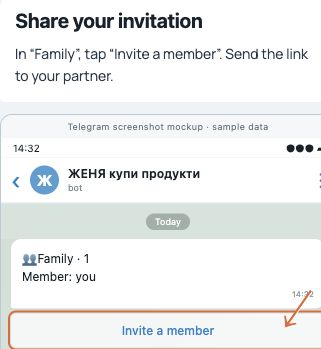
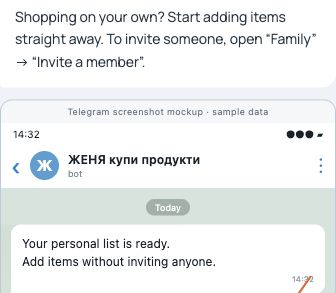
Support personal shopping with optional shared-list onboarding

diff --git a/src/shopping_bot/web/app.en.js b/src/shopping_bot/web/app.en.js
@@ -15,11 +15,11 @@ function joinForm(){return '<form id="family-join-form"><label>Invitation<input 
 function wireJoin(){const form=$('family-join-form');if(form)form.onsubmit=async event=>{event.preventDefault();const token=inviteToken($('family-invite-input').value.trim());if(!token){toast('Paste the full invitation link.');return;}try{await previewInvite(token);}catch(error){toast(error.message);}};}
 function renderFamily(){
  const data=familyView;$('family-dialog').querySelector('h2').textContent=data.name||'Your family';
- if(!data.family_id){$('family-members').innerHTML='<p class="hint">Create a shared list or join your loved ones.</p><button id="family-create" class="primary full">Create family</button>'+joinForm();$('family-create').onclick=()=>familyAction('/api/family/create',{});wireJoin();return;}
+ if(!data.family_id){$('family-members').innerHTML='<p class="hint">Choose how to start: on your own or with others. Invitations are optional.</p><button id="family-solo" class="primary full">🙋 Just for me</button><button id="family-shared" class="secondary full">👥 With others</button>'+joinForm();$('family-solo').onclick=()=>familyAction('/api/family/create',{mode:'solo'});$('family-shared').onclick=()=>familyAction('/api/family/create',{mode:'shared'});wireJoin();return;}
  const owner=data.owner_id===data.self_id;
- $('family-members').innerHTML=(data.members.length===1?'<p class="hint">You are the only family member. Share an invitation: the list becomes shared after they open the link and confirm joining.</p>':'')+data.members.map(member=>`<div class="history-row"><strong>${escape(member.name)}</strong><small>${member.self?'You · ':''}${member.owner?'Founder':'Member'}</small></div>`).join('')+
+ $('family-members').innerHTML=(data.members.length===1?'<p class="hint">This is your list — use it on your own. You can invite others later if you wish; invitations are optional.</p>':'')+data.members.map(member=>`<div class="history-row"><strong>${escape(member.name)}</strong><small>${member.self?'You · ':''}${member.owner?'Founder':'Member'}</small></div>`).join('')+
  '<div class="family-controls"><button id="family-invite" class="primary full">Invite a member</button><div id="family-new-link"></div>'+joinForm()+
- `<form id="family-name-form"><label>Family name<input id="family-name" value="${escape(data.name)}" maxlength="60" required></label><button class="secondary full" type="submit">Save name</button></form>`+
+ `<form id="family-name-form"><label>List name<input id="family-name" value="${escape(data.name)}" maxlength="60" required></label><button class="secondary full" type="submit">Save name</button></form>`+
  (data.invites.length?'<h3>Awaiting acceptance</h3>'+data.invites.map(invite=>`<div class="history-row"><small>${escape(new Date(invite.created_at).toLocaleString('en-GB'))}</small><button class="text-button" data-revoke="${escape(invite.token)}">Revoke invitation</button></div>`).join(''):'')+
  (owner&&data.members.length>1?`<label>Transfer founder role<select id="family-owner">${data.members.filter(m=>!m.self).map(m=>`<option value="${m.id}">${escape(m.name)}</option>`).join('')}</select></label><button id="family-owner-transfer" class="secondary full">Transfer role</button>`:'')+
  '<button id="family-leave" class="secondary full">Leave family</button>'+(owner?'<button id="family-delete" class="text-button danger">Delete family</button>':'')+'</div>';
@@ -32,7 +32,7 @@ function renderFamily(){
  if($('family-owner-transfer'))$('family-owner-transfer').onclick=()=>{const id=Number($('family-owner').value),member=data.members.find(m=>m.id===id);askFamily(`Transfer founder role to “${member.name}”? They will be able to delete the family.`,()=>familyAction('/api/family/owner',{user_id:id,confirm:true}));};
 }
 function askFamily(text,action){$('family-members').innerHTML=`<p class="family-confirm">${escape(text)}</p><div class="sheet-actions"><button id="family-confirm" class="primary">Confirm</button><button id="family-cancel" class="secondary">Cancel</button></div>`;$('family-cancel').onclick=renderFamily;$('family-confirm').onclick=async()=>{const button=$('family-confirm');button.disabled=true;try{await action();}catch(error){toast(error.message);}finally{if(button.isConnected)button.disabled=false;}};}
-async function familyAction(path,data){if(demo){toast('Changes are not saved in the demo.');renderFamily();return;}try{await api(path,data);toast('Done');await load();await openFamily();}catch(error){toast(error.message);await openFamily();}}
+async function familyAction(path,data){if(demo){toast('Changes are not saved in the demo.');renderFamily();return;}try{await api(path,data);toast('Done');await load();if(path==='/api/family/create'&&data.mode==='solo'){closeDialogs();}else await openFamily();}catch(error){toast(error.message);await openFamily();}}
 async function previewInvite(token){
  if(demo){toast('Invitations are available in the bot.');return;}
  const preview=await api('/api/family/preview',{token});
@@ -72,22 +72,22 @@ async function api(path, body){
 }
 async function load(quiet=false){
   if(loading){reloadNeeded=true;return;} loading=true; const startedRevision=revision;
-  try{const next=demo?structuredClone(demoData):await api('/api/state');if(startedRevision!==revision){reloadNeeded=true;return;}if(state.family_id&&next.family_id!==state.family_id){closeDialogs();operations.clear();pending.clear();photos.clear();selected=null;lastEvent=null;revision++;toast('Family switched');}if(next.language&&next.language!==currentLanguage){location.replace(languageURL(next.language));return;}const nextSignature=JSON.stringify(next);for(const [id,op] of operations){const product=next.products.find(p=>p.id===id);if(product)product.active=op.phase==='hidden'?op.action==='readd':op.previousActive;}state=next;if(nextSignature!==signature){signature=nextSignature;render();} $('connection').textContent=demo?'● Design preview':'● Shared list';}
+  try{const next=demo?structuredClone(demoData):await api('/api/state');if(startedRevision!==revision){reloadNeeded=true;return;}if(state.family_id&&next.family_id!==state.family_id){closeDialogs();operations.clear();pending.clear();photos.clear();selected=null;lastEvent=null;revision++;toast('Family switched');}if(next.language&&next.language!==currentLanguage){location.replace(languageURL(next.language));return;}const nextSignature=JSON.stringify(next);for(const [id,op] of operations){const product=next.products.find(p=>p.id===id);if(product)product.active=op.phase==='hidden'?op.action==='readd':op.previousActive;}state=next;if(nextSignature!==signature){signature=nextSignature;render();} $('connection').textContent=demo?'● Design preview':'● Your list';}
   catch(error){$('connection').textContent='○ Offline';if(!signature){$('subtitle').textContent='Your data is protected';$('content').innerHTML=`<div class="empty"><div class="symbol">↗</div><h2>Open in Telegram</h2><p>${escape(error.message)}</p><button class="primary" id="retry">Try again</button></div>`;$('retry').onclick=()=>load();}else if(!quiet)toast(error.message);}
   finally{loading=false;if(reloadNeeded){reloadNeeded=false;queueMicrotask(()=>load(true));}}
 }
 function visible(){const term=$('search').value.trim().toLocaleLowerCase('en');return state.products.filter(p=>(tab==='catalog'||p.active)&&(!filter||p.category===filter)&&(!term||(p.name+' '+p.note).toLocaleLowerCase('en').includes(term)));}
 function row(p){const emoji=(state.categories[p.category]||'📦').split(' ')[0];const buying=operations.get(p.id)?.action==='buy';return `<article class="product-row ${buying?'is-buying':''}" data-product="${p.id}"><button class="product-open" data-open="${p.id}" aria-label="Open ${escape(p.name)}"><span class="thumb">${p.photo?`<img data-photo="${p.id}" alt="Packaging ${escape(p.name)}">`:escape(emoji)}</span><span class="product-copy"><strong>${escape(p.name)}</strong>${p.note?`<small>${escape(p.note)}</small>`:''}</span></button>${tab==='catalog'&&p.active?'<span class="in-list">On the list</span>':`<button class="product-check ${tab==='catalog'?'add-again':''}" data-action="${p.id}" aria-label="${tab==='catalog'?'Add to list':'Bought'}: ${escape(p.name)}" ${pending.has(p.id)?'disabled':''} aria-pressed="${buying}">${tab==='catalog'?'＋':'<svg viewBox="0 0 24 24" aria-hidden="true"><path d="M5 12.5 10 17 19 7"/></svg>'}</button>`}</article>`;}
 function render(){
-  if(state.onboarding){$('title').textContent='Our groceries';$('subtitle').textContent='One list for your family';document.querySelector('.tools').hidden=true;$('filters').hidden=true;$('content').innerHTML='<div class="empty"><h2>Start with a family</h2><p>Create a family or accept an invitation.</p><button id="onboarding-family" class="primary">Create or join</button></div>';$('onboarding-family').onclick=()=>openFamily();return;}
+  if(state.onboarding){$('title').textContent='Your shopping';$('subtitle').textContent='On your own or with others';document.querySelector('.tools').hidden=true;$('filters').hidden=true;$('content').innerHTML='<div class="empty"><h2>How will you use your list?</h2><p>On your own or with others. Start on your own and invite someone later if you wish.</p><div class="usage-choices"><button id="onboarding-solo" class="primary">🙋 Just for me</button><button id="onboarding-shared" class="secondary">👥 With others</button><button id="onboarding-family" class="text-button">I have an invitation</button></div></div>';$('onboarding-family').onclick=()=>openFamily();$('onboarding-solo').onclick=()=>familyAction('/api/family/create',{mode:'solo'});$('onboarding-shared').onclick=()=>familyAction('/api/family/create',{mode:'shared'});return;}
 
   photoObserver.disconnect();
   const previousRects = new Map([...document.querySelectorAll('[data-product]')].map(node=>[node.dataset.product,node.getBoundingClientRect()]));
   $('title').textContent={shopping:'Shopping',catalog:'Our products',history:'History'}[tab];
   const count=state.products.filter(p=>p.active).length;
   const members=state.family_member_count||(demo?2:1);
-  $('family').textContent=`👥 Family · ${members}`;
-  $('subtitle').textContent=tab==='shopping'?(members===1?`${count} at списку · only you in this family`:`${count} at списку · members: ${members}`):tab==='catalog'?`${state.products.length} saved · photos and notes are kept`:'Who bought what and when';
+  $('family').textContent=members===1?'👤 My list':`👥 Members · ${members}`;
+  $('subtitle').textContent=tab==='shopping'?(members===1?`${count} at списку · personal list`:`${count} at списку · members: ${members}`):tab==='catalog'?`${state.products.length} saved · photos and notes are kept`:'Who bought what and when';
   document.querySelectorAll('nav button').forEach(b=>b.dataset.tab===tab?b.setAttribute('aria-current','page'):b.removeAttribute('aria-current'));
   document.querySelector('.tools').hidden=tab==='history';
   $('filters').hidden=tab==='history';
@@ -100,7 +100,7 @@ function render(){
   const keys=Object.keys(state.categories).filter(key=>available.some(p=>p.category===key));
   $('filters').innerHTML=`<button data-filter="" class="${!filter?'selected':''}" aria-pressed="${!filter}">All</button>`+keys.map(key=>`<button data-filter="${key}" class="${filter===key?'selected':''}" aria-pressed="${filter===key}">${escape(state.categories[key])}</button>`).join('');
   const rows=visible();
-  if(!rows.length){const searching=$('search').value||filter;const complete=!searching&&tab==='shopping';$('content').innerHTML=`<div class="empty"><div class="symbol">${searching?'⌕':complete?'✓':'＋'}</div><h2>${searching?'No products found':complete?'All bought':'Your catalog is empty'}</h2><p>${searching?'Change the search or choose another category.':complete?'Photos and notes are kept. Quickly add products again.':'Add your first products — they will stay here for future purchases.'}</p><div class="empty-actions"><button class="primary" id="empty-add">Add products</button>${complete&&state.products.length?'<button class="secondary" id="empty-again">Buy again</button>':''}</div></div>`;$('empty-add').onclick=openAdd;if($('empty-again'))$('empty-again').onclick=()=>switchTab('catalog');return;}
+  if(!rows.length){const searching=$('search').value||filter;const complete=!searching&&tab==='shopping';$('content').innerHTML=`<div class="empty"><div class="symbol">${searching?'⌕':complete?'✓':'＋'}</div><h2>${searching?'No products found':complete?(state.products.length?'All bought':'Your list is ready'):'Your catalog is empty'}</h2><p>${searching?'Change the search or choose another category.':complete?(state.products.length?'Photos and notes are kept. Quickly add products again.':'Add your first items using the button below.'):'Add your first products — they will stay here for future purchases.'}</p><div class="empty-actions"><button class="primary" id="empty-add">Add products</button>${complete&&state.products.length?'<button class="secondary" id="empty-again">Buy again</button>':''}</div></div>`;$('empty-add').onclick=openAdd;if($('empty-again'))$('empty-again').onclick=()=>switchTab('catalog');return;}
   $('content').innerHTML=Object.keys(state.categories).map(key=>{const group=rows.filter(p=>p.category===key);return group.length?`<section class="group"><h2>${escape(state.categories[key])}<span>${group.length}</span></h2><div class="products">${group.map(row).join('')}</div></section>`:'';}).join('');
   document.querySelectorAll('[data-open]').forEach(b=>b.onclick=()=>openProduct(Number(b.dataset.open)));
   document.querySelectorAll('[data-action]').forEach(b=>b.onclick=()=>mutateProduct(Number(b.dataset.action),tab==='catalog'?'readd':'buy'));
@@ -151,8 +151,8 @@ async function mutateProduct(id,action){
     if(demo){demoData.products.find(p=>p.id===id).active=action==='readd';result={bought:action==='buy',event_id:id};}
     else result=await api('/api/'+action,{id});
     await motion;
-    if(action==='buy'&&result.bought){lastEvent=result.event_id;toast('Bought. Removed from the shared list.',true);}
-    else toast(action==='readd'?'Added to the shared list':'Product already bought');
+    if(action==='buy'&&result.bought){lastEvent=result.event_id;toast('Bought. Removed from the list.',true);}
+    else toast(action==='readd'?'Added to the list':'Product already bought');
     if(action==='buy')product.active=false;
   }catch(error){
     operations.delete(id);
@@ -169,7 +169,7 @@ async function mutateProduct(id,action){
 $('product-form').onsubmit=async event=>{event.preventDefault();const button=event.submitter;button.disabled=true;try{if(demo){Object.assign(demoData.products.find(p=>p.id===selected.id),{note:$('note').value,category:$('category').value});}else await api('/api/edit',{id:selected.id,note:$('note').value,category:$('category').value});closeDialogs();toast('Changes saved');await load();}catch(error){toast(error.message);}finally{button.disabled=false;}};
 $('product-action').onclick=()=>mutateProduct(selected.id,selected.active?'buy':'readd');
 $('items').oninput=()=>{draftText=null;$('draft').hidden=true;$('add-submit').textContent='Review list';};
-$('add-form').onsubmit=async event=>{event.preventDefault();const button=$('add-submit');button.disabled=true;try{const raw=$('items').value.trim();if(!raw)return;if(draftText!==raw){const result=demo?{items:raw.split(/[,\n]/).filter(Boolean).map(name=>({name:name.trim(),note:'',category:'other'}))}:await api('/api/draft',{text:raw});if(!result.items.length){toast('Enter product names');return;}$('draft').innerHTML='<strong>Add to the shared list?</strong>'+result.items.map(p=>`<p>${escape(p.name)}${p.active?' · Already on the list':''}<br><small class="muted">${escape(state.categories[p.category])}${p.note?' · '+escape(p.note):''}</small></p>`).join('');$('draft').hidden=false;draftText=raw;button.textContent='Add all · '+result.items.length;}else{if(demo){raw.split(/[,\n]/).filter(Boolean).forEach((name,i)=>demoData.products.push({id:Date.now()+i,name:name.trim(),note:'',category:'other',active:true,photo:false}));}else await api('/api/add',{text:raw});closeDialogs();tab='shopping';filter='';$('search').value='';toast('Products added');await load();}}catch(error){toast(error.message);}finally{button.disabled=false;}};
+$('add-form').onsubmit=async event=>{event.preventDefault();const button=$('add-submit');button.disabled=true;try{const raw=$('items').value.trim();if(!raw)return;if(draftText!==raw){const result=demo?{items:raw.split(/[,\n]/).filter(Boolean).map(name=>({name:name.trim(),note:'',category:'other'}))}:await api('/api/draft',{text:raw});if(!result.items.length){toast('Enter product names');return;}$('draft').innerHTML='<strong>Add to the list?</strong>'+result.items.map(p=>`<p>${escape(p.name)}${p.active?' · Already on the list':''}<br><small class="muted">${escape(state.categories[p.category])}${p.note?' · '+escape(p.note):''}</small></p>`).join('');$('draft').hidden=false;draftText=raw;button.textContent='Add all · '+result.items.length;}else{if(demo){raw.split(/[,\n]/).filter(Boolean).forEach((name,i)=>demoData.products.push({id:Date.now()+i,name:name.trim(),note:'',category:'other',active:true,photo:false}));}else await api('/api/add',{text:raw});closeDialogs();tab='shopping';filter='';$('search').value='';toast('Products added');await load();}}catch(error){toast(error.message);}finally{button.disabled=false;}};
 $('undo').onclick=async()=>{if(!lastEvent)return;const eventId=lastEvent;lastEvent=null;$('undo').disabled=true;try{if(demo){const product=demoData.products.find(p=>p.id===eventId);if(product)product.active=true;}else{const result=await api('/api/undo',{event_id:eventId});if(!result.restored){toast('This purchase was already undone');return;}}toast('Restored to the list');await load();}catch(error){lastEvent=eventId;toast(error.message,true);}finally{$('undo').disabled=false;}};
 $('refresh').onclick=()=>load();$('add').onclick=openAdd;$('search').oninput=render;
 $('filters').onclick=event=>{const button=event.target.closest('[data-filter]');if(button){filter=button.dataset.filter;render();}};

diff --git a/src/shopping_bot/web/help.js b/src/shopping_bot/web/help.js
@@ -1,16 +1,16 @@
 
-const copy={uk:{help:'Довідка',eyebrow:'Перші покупки разом',hero:'Один список.<br>Для вас обох.',intro:'Від першого запуску до спільних покупок — шість коротких кроків.',creator:'Я створюю список',invited:'Мене запросили',guide:'ЖЕНЯ купи продукти',step:'КРОК',back:'← Назад',next:'Наступний крок →',again:'На початок ↺',preview:'Ілюстровані приклади на демонстраційних даних. Довідка в чаті: /help. Повідомити про проблему: /support.',mock:'Макет скрина Telegram · демодані',steps:[
+const copy={uk:{help:'Довідка',eyebrow:'Ваш список покупок',hero:'Для себе.<br>Або разом.',intro:'Почніть самостійно або запросіть інших — коли захочете.',creator:'Я створюю список',invited:'Мене запросили',guide:'ЖЕНЯ купи продукти',step:'КРОК',back:'← Назад',next:'Наступний крок →',again:'На початок ↺',preview:'Ілюстровані приклади на демонстраційних даних. Довідка в чаті: /help. Повідомити про проблему: /support.',mock:'Макет скрина Telegram · демодані',steps:[
 ['Мова','Почніть із мови','Відкрийте бот і натисніть Start / «Розпочати». Оберіть українську або English.','Мову можна змінити пізніше: /language.','<div class="bubble">Оберіть мову / Choose your language</div><div class="fakebutton target">🇺🇦 Українська</div><div class="fakebutton">🇬🇧 English</div>'],
-['Сім’я','Створіть сім’ю','Натисніть «Створити сім’ю». Потім відкрийте «Сім’я» та запросіть близьку людину.','Створена сім’я ще не означає, що інша людина приєдналася.','<div class="bubble">Ваш спільний список починається зі сім’ї.</div><div class="fakebutton target">Створити сім’ю</div><div class="fakebutton">Приєднатися</div>'],
-['Запрошення','Надішліть запрошення','У «Сім’я» натисніть «Запросити учасника». Надішліть посилання партнеру або партнерці.','Людина має відкрити посилання й підтвердити приєднання. Один учасник = список поки бачите лише ви.','<div class="bubble">👥 Сім’я · 1<br>Учасник: ви</div><div class="fakebutton target">Запросити учасника</div><div class="bubble">Після прийняття: 👥 Сім’я · 2 ✓</div>'],
+['Ваш список','Оберіть свій варіант','Натисніть «Для себе» для особистого списку або «Разом з іншими» для спільних покупок.','Обидва варіанти мають усі функції. Запросити когось можна пізніше.','<div class="bubble">Як будете користуватися списком?</div><div class="fakebutton target">🙋 Для себе</div><div class="fakebutton">👥 Разом з іншими</div><div class="fakebutton">У мене є запрошення</div>'],
+['За бажанням','Запрошення необов’язкове','Користуєтеся самостійно? Одразу додавайте товари. Щоб запросити когось, відкрийте «Сім’я» → «Запросити учасника».','Список для однієї людини повноцінний. Інші побачать його лише після підтвердження запрошення.','<div class="bubble">Ваш особистий список готовий.<br>Можна додавати товари без запрошення.</div><div class="fakebutton target">🛒 Покупки</div>'],
 ['Додавання','Скажіть, що купити','Надішліть боту текст або голосове: «Молоко, яйця, хліб». Перевірте чернетку й підтвердьте додавання.','Якщо бот почув не те — виправте чернетку до підтвердження. У Mini App товари також можна додати кнопкою +.','<div class="bubble" class="sample-app">🎙 Молоко, яйця, хліб</div><div class="bubble">Молоко<br>Яйця<br>Хліб</div><div class="fakebutton target">✅ Додати</div>'],
 ['У магазині','Відкрийте список покупок','У боті натисніть «Покупки». Відкриється Mini App: там натискайте галочки біля куплених товарів.','Товар зникне з активного списку для всіх учасників. Фото й нотатки залишаться в каталозі.','<div class="bubble">👥 Сім’я · 2</div><div class="fakebutton target">Покупки</div><div class="bubble">Далі в Mini App: ✓ Молоко</div><div class="bubble">Залишилось купити: яйця, хліб</div>'],
 ['Фото й допомога','Усе потрібне — під рукою','Для фото надішліть боту зображення упаковки з назвою товару в підписі. Нотатку змініть у картці товару.','Щось не працює? /support → опишіть проблему → «Надіслати». Збережіть номер звернення.','<div class="bubble">📷 Фото упаковки<br>Підпис: «Молоко»</div><div class="fakebutton">Нотатка у картці Mini App</div><div class="fakebutton target">🐞 Повідомити про проблему</div>']
 ],join:[['Сім’я','Відкрийте запрошення','Попросіть близьку людину надіслати запрошення з розділу «Сім’я». Відкрийте її посилання в Telegram.','Щоб мати спільний список, приєднайтеся до її сім’ї. Другу сім’ю створювати не потрібно.','<div class="bubble">Запрошення до спільного списку<br>t.me/…?start=invite_…</div><div class="fakebutton target">Відкрити посилання</div>'],['Приєднання','Підтвердьте приєднання','Перевірте, хто вас запросив. Натисніть «Приєднатися». Після цього в розділі «Сім’я» мають бути ви обоє.','Якщо у вас уже є своя сім’я, бот запропонує перехід. «Перенести список» переносить активні покупки; каталог та історія не переносяться.','<div class="bubble">Юлія запрошує до «Наші покупки».</div><div class="fakebutton target">Приєднатися</div><div class="bubble">Перевірте: 👥 Сім’я · 2 ✓</div>']]},
-en:{help:'Help',eyebrow:'Your first shared shop',hero:'One list.<br>For both of you.',intro:'From opening the bot to shopping together — six short steps.',creator:'I’m creating a list',invited:'I’ve been invited',guide:'ZHENYA · shopping bot',step:'STEP',back:'← Back',next:'Next step →',again:'Start again ↺',preview:'Illustrated examples with sample data. Chat help: /help. Report a problem: /support.',mock:'Telegram screenshot mockup · sample data',steps:[
+en:{help:'Help',eyebrow:'Your shopping list',hero:'On your own.<br>Or together.',intro:'Start on your own or invite others whenever you wish.',creator:'I’m creating a list',invited:'I’ve been invited',guide:'ZHENYA · shopping bot',step:'STEP',back:'← Back',next:'Next step →',again:'Start again ↺',preview:'Illustrated examples with sample data. Chat help: /help. Report a problem: /support.',mock:'Telegram screenshot mockup · sample data',steps:[
 ['Language','Choose your language','Open the bot and tap Start. Choose Ukrainian or English.','You can change it later with /language.','<div class="bubble">Оберіть мову / Choose your language</div><div class="fakebutton">🇺🇦 Українська</div><div class="fakebutton target">🇬🇧 English</div>'],
-['Family','Create a family','Tap “Create family”. Then open “Family” to invite someone.','Creating a family does not automatically add another person.','<div class="bubble">A shared list starts with a family.</div><div class="fakebutton target">Create family</div><div class="fakebutton">Join</div>'],
-['Invitation','Share your invitation','In “Family”, tap “Invite a member”. Send the link to your partner.','They must open the link and confirm joining. With one member, only you can see this list.','<div class="bubble">👥 Family · 1<br>Member: you</div><div class="fakebutton target">Invite a member</div><div class="bubble">After they join: 👥 Family · 2 ✓</div>'],
+['Your list','Choose how to start','Choose “Just for me” for a personal list or “With others” for shared shopping.','Both options include all shopping features. You can invite someone later.','<div class="bubble">How will you use your list?</div><div class="fakebutton target">🙋 Just for me</div><div class="fakebutton">👥 With others</div><div class="fakebutton">I have an invitation</div>'],
+['Optional','Inviting others is optional','Shopping on your own? Start adding items straight away. To invite someone, open “Family” → “Invite a member”.','A one-person list has all shopping features. Others see it only after accepting your invitation.','<div class="bubble">Your personal list is ready.<br>Add items without inviting anyone.</div><div class="fakebutton target">🛒 Shopping</div>'],
 ['Add items','Say what you need','Send a text or voice message: “Milk, eggs, bread”. Review the draft and confirm adding it.','If the bot misheard you, edit the draft before confirming. You can also add items with + in the Mini App.','<div class="bubble" class="sample-app">🎙 Milk, eggs, bread</div><div class="bubble">Milk<br>Eggs<br>Bread</div><div class="fakebutton target">✅ Add</div>'],
 ['Shopping','Open your shopping list','Tap “Shopping” in the bot. It opens the Mini App, where you can tick off items you bought.','It leaves the active list for every family member. Its photo and notes remain in the catalog.','<div class="bubble">👥 Family · 2</div><div class="fakebutton target">Shopping</div><div class="bubble">Then in the Mini App: ✓ Milk</div><div class="bubble">Still to buy: eggs, bread</div>'],
 ['Photos & help','Keep the details handy','Send the bot a package photo with the product name in its caption. Edit notes in the product card.','Something broken? /support → describe the problem → “Send”. Keep your report number.','<div class="bubble">📷 Package photo<br>Caption: “Milk”</div><div class="fakebutton">Note in the Mini App product card</div><div class="fakebutton target">🐞 Report a problem</div>']

diff --git a/src/shopping_bot/web/index.html b/src/shopping_bot/web/index.html
@@ -11,12 +11,12 @@
 </head>
 <body>
 <div class="shell">
-<header><div class="eyebrow">ДЛЯ НАШОЇ СІМ’Ї <span id="connection">● Спільний список</span></div>
+<header><div class="eyebrow">ВАШІ ПОКУПКИ <span id="connection">● Ваш список</span></div>
 <div class="headline"><h1 id="title">Покупки</h1><button id="refresh" class="icon-button" aria-label="Оновити список"><svg viewBox="0 0 24 24" aria-hidden="true"><path d="M20 10a8 8 0 1 0-2 8M20 4v6h-6"/></svg></button></div>
 <p id="subtitle">Завантажуємо ваш список…</p></header>
 <label class="language-picker">🌐 <select id="language" aria-label="Мова / Language"><option value="" disabled>Оберіть мову / Choose language</option><option value="uk">Українська</option><option value="en">English</option></select></label>
 <button id="help-guide" class="secondary" type="button">📖 Довідка</button>
-<button id="family" class="secondary" type="button">👥 Сім’я</button>
+<button id="family" class="secondary" type="button">👥 Учасники</button>
 <div id="demo-banner" hidden>Перегляд дизайну · демонстраційні товари</div>
 <div class="tools"><label class="search"><span aria-hidden="true"><svg viewBox="0 0 24 24" aria-hidden="true"><circle cx="10.5" cy="10.5" r="6.5"/><path d="m16 16 4 4"/></svg></span><input id="search" type="search" placeholder="Знайти товар" aria-label="Знайти товар"></label><button class="add-button" id="add" aria-label="Додати товари"><svg viewBox="0 0 24 24" aria-hidden="true"><path d="M12 5v14M5 12h14"/></svg></button></div>
 <div id="filters" class="filters" aria-label="Категорії"></div>
@@ -26,5 +26,5 @@
 <dialog id="product-dialog"><form id="product-form"><div class="sheet-top"><span>КАРТКА ТОВАРУ</span><button type="button" class="icon-button close" aria-label="Закрити картку">×</button></div><div id="product-photo"></div><h2 id="product-name"></h2><p id="product-status" class="muted"></p><label>Нотатка<textarea id="note" maxlength="200" rows="3" placeholder="Наприклад: купити в Mercadona"></textarea></label><label>Категорія<select id="category"></select></label><p id="photo-hint" class="hint">Фото упаковки можна додати в чаті: надішліть фото з назвою товару.</p><div class="sheet-actions"><button type="submit" class="primary">Зберегти</button><button type="button" id="product-action" class="secondary"></button></div></form></dialog>
 <dialog id="add-dialog"><div class="sheet-top"><span>ДОДАТИ ДО СПИСКУ</span><button type="button" class="icon-button close" aria-label="Закрити додавання">×</button></div><h2>Що потрібно купити?</h2><form id="add-form"><label>Товари<textarea id="items" rows="4" maxlength="2400" placeholder="Молоко, яйця, картопля" required></textarea></label><p class="hint">Через кому або з нового рядка. Нотатка: картопля :: купити в Mercadona.</p><div id="draft" hidden></div><button class="primary full" id="add-submit" type="submit">Перевірити список</button></form><button type="button" class="text-button" id="voice">🎙 Додати голосом у чаті</button></dialog>
 <div id="toast" role="status" hidden><span></span><button id="undo" hidden>Скасувати</button></div>
-<dialog id="family-dialog"><div class="sheet-top"><span>НАША СІМ’Я</span><button type="button" class="icon-button close" aria-label="Закрити сім’ю">×</button></div><h2>Учасники</h2><div id="family-members" aria-live="polite"></div></dialog>
+<dialog id="family-dialog"><div class="sheet-top"><span>ДОСТУП ДО СПИСКУ</span><button type="button" class="icon-button close" aria-label="Закрити вікно учасників">×</button></div><h2>Учасники</h2><div id="family-members" aria-live="polite"></div></dialog>
 </body></html>

diff --git a/src/shopping_bot/web/index.en.html b/src/shopping_bot/web/index.en.html
@@ -11,12 +11,12 @@
 </head>
 <body>
 <div class="shell">
-<header><div class="eyebrow">FOR OUR FAMILY <span id="connection">● Shared list</span></div>
+<header><div class="eyebrow">YOUR SHOPPING <span id="connection">● Your list</span></div>
 <div class="headline"><h1 id="title">Shopping</h1><button id="refresh" class="icon-button" aria-label="Refresh list"><svg viewBox="0 0 24 24" aria-hidden="true"><path d="M20 10a8 8 0 1 0-2 8M20 4v6h-6"/></svg></button></div>
 <p id="subtitle">Loading your list…</p></header>
 <label class="language-picker">🌐 <select id="language" aria-label="Мова / Language"><option value="" disabled>Оберіть мову / Choose language</option><option value="uk">Українська</option><option value="en">English</option></select></label>
 <button id="help-guide" class="secondary" type="button">📖 Help</button>
-<button id="family" class="secondary" type="button">👥 Family</button>
+<button id="family" class="secondary" type="button">👥 Members</button>
 <div id="demo-banner" hidden>Design preview · demo products</div>
 <div class="tools"><label class="search"><span aria-hidden="true"><svg viewBox="0 0 24 24" aria-hidden="true"><circle cx="10.5" cy="10.5" r="6.5"/><path d="m16 16 4 4"/></svg></span><input id="search" type="search" placeholder="Find a product" aria-label="Find a product"></label><button class="add-button" id="add" aria-label="Add products"><svg viewBox="0 0 24 24" aria-hidden="true"><path d="M12 5v14M5 12h14"/></svg></button></div>
 <div id="filters" class="filters" aria-label="Categories"></div>
@@ -26,5 +26,5 @@
 <dialog id="product-dialog"><form id="product-form"><div class="sheet-top"><span>PRODUCT CARD</span><button type="button" class="icon-button close" aria-label="Close product card">×</button></div><div id="product-photo"></div><h2 id="product-name"></h2><p id="product-status" class="muted"></p><label>Note<textarea id="note" maxlength="200" rows="3" placeholder="For example: buy at Mercadona"></textarea></label><label>Category<select id="category"></select></label><p id="photo-hint" class="hint">Add a packaging photo in chat: send a photo with the product name.</p><div class="sheet-actions"><button type="submit" class="primary">Save</button><button type="button" id="product-action" class="secondary"></button></div></form></dialog>
 <dialog id="add-dialog"><div class="sheet-top"><span>ADD TO LIST</span><button type="button" class="icon-button close" aria-label="Close add products">×</button></div><h2>What do we need?</h2><form id="add-form"><label>Products<textarea id="items" rows="4" maxlength="2400" placeholder="Milk, eggs, potatoes" required></textarea></label><p class="hint">Separate with commas or new lines. Note: potatoes :: buy at Mercadona.</p><div id="draft" hidden></div><button class="primary full" id="add-submit" type="submit">Review list</button></form><button type="button" class="text-button" id="voice">🎙 Add by voice in chat</button></dialog>
 <div id="toast" role="status" hidden><span></span><button id="undo" hidden>Cancel</button></div>
-<dialog id="family-dialog"><div class="sheet-top"><span>OUR FAMILY</span><button type="button" class="icon-button close" aria-label="Close family">×</button></div><h2>Members</h2><div id="family-members" aria-live="polite"></div></dialog>
+<dialog id="family-dialog"><div class="sheet-top"><span>LIST ACCESS</span><button type="button" class="icon-button close" aria-label="Close members window">×</button></div><h2>Members</h2><div id="family-members" aria-live="polite"></div></dialog>
 </body></html>

diff --git a/src/shopping_bot/web/style.css b/src/shopping_bot/web/style.css
@@ -94,3 +94,5 @@ header{margin-bottom:16px}h1{font-size:32px;letter-spacing:-1.2px}.headline{marg
 #family{vertical-align:middle;min-height:44px;margin-bottom:12px}
 .language-picker~button.secondary{min-height:44px;padding:9px 12px;font-size:13px;vertical-align:middle;margin-bottom:12px}
 @media(max-width:380px){.language-picker{gap:5px;margin-right:4px}.language-picker select{max-width:155px;padding-right:20px}.language-picker~button.secondary{padding-left:10px;padding-right:10px}}
+
+.usage-choices{display:grid;gap:12px;width:min(100%,360px);margin:24px auto 0}.usage-choices button{min-height:48px}

diff --git a/src/shopping_bot/app.py b/src/shopping_bot/app.py
@@ -94,6 +94,21 @@ class ShoppingBot:
         self.family_context.set(family or "legacy")
         return family is not None
 
+    def show_usage_choice(self, user_id):
+        self.send(user_id, tr('Як плануєте користуватися списком? Для себе або разом з іншими — обидва варіанти повноцінні. Запросити когось можна пізніше.'), reply_markup=buttons([(tr('🙋 Для себе'), 'family:solo')], [(tr('👥 Разом з іншими'), 'family:shared')], [(tr('У мене є запрошення'), 'family:joinhelp')]))
+
+    def start_list(self, user_id, name, mode):
+        _, status = self.families.enroll(user_id, name, mode=mode)
+        self.bind_user(user_id)
+        if status == 'already':
+            self.show_list(user_id, bring_to_bottom=True)
+            return
+        text = 'Ваш особистий список готовий. Додавайте товари текстом або голосом. Запрошувати когось не потрібно; за бажанням це можна зробити пізніше.' if mode == 'solo' else 'Список готовий — вже можна додавати товари. Щоб користуватися разом, запросіть інших у розділі «Сім’я». Це можна зробити пізніше.'
+        self.send(user_id, tr(text), reply_markup=self.menu())
+        if mode == 'shared':
+            self.show_family(user_id)
+        self.show_list(user_id)
+
     def show_invite(self, user_id):
         username=self.telegram.call('getMe')['username']
         token=self.families.create_invite(user_id)
@@ -132,7 +147,7 @@ class ShoppingBot:
         members=self.families.members(current['id'])
         lines=[f"👥 {current['name']} · {len(members)}{tr('ui_5f022cf87ad2')}",'']
         if len(members)==1:
-            lines.append(tr('Зараз у сім’ї лише ви. Інший учасник побачить список після того, як відкриє ваше запрошення й підтвердить приєднання.'))
+            lines.append(tr('Списком можна повноцінно користуватися самостійно. Запрошення необов’язкове: за бажанням додайте інших учасників пізніше.'))
             lines.append('')
         for member in members:
             suffix=(tr('ui_109e3f46b4ae') if member['user_id']==user_id else '')+(tr('ui_d22aad051523') if member['user_id']==current['owner_id'] else '')
@@ -207,7 +222,7 @@ class ShoppingBot:
             if legacy and message['message_id'] != target:
                 self.remove_obsolete_panel(user_id, message['message_id'])
             return
-        photo = f'{url}/help/{chosen}-{role}-{step}.png'
+        photo = f"{url}/help/{chosen}-{role}-{step}.png?v={release()['commit']}"
         if target:
             try:
                 if media:
@@ -359,12 +374,11 @@ class ShoppingBot:
         if text.startswith('/start invite_'):
             self.show_invite_preview(user_id,text.split('invite_',1)[1])
             return
-        if text=='/create':
-            _,status=self.families.enroll(user_id,name)
-            self.bind_user(user_id)
-            self.send(user_id,tr('ui_d68371904f25') if status=='already' else tr('ui_6f7df4bd00b9'),reply_markup=self.menu())
-            self.show_family(user_id)
-            self.show_web_app(user_id)
+        if text == '/create':
+            if registered:
+                self.show_list(user_id, bring_to_bottom=True)
+            else:
+                self.show_usage_choice(user_id)
             return
         if text.startswith("/whoami"):
             self.send(user_id, f"{tr('ui_4f0929df6f64')}{user_id}")
@@ -382,7 +396,7 @@ class ShoppingBot:
             self.send(user_id, tr('ui_06ea442c02cb'), reply_markup=self.menu())
             return
         if not registered:
-            self.send(user_id, tr('ui_ecf6cf5bcc46'), reply_markup=buttons([(tr('ui_fa354ddf77af'), "family:create"),(tr('ui_cc3a50c1e3fb'), "family:joinhelp")]))
+            self.show_usage_choice(user_id)
             self.show_web_app(user_id)
             return
         if user_id in self.pending_family_names and text and not text.startswith('/'):
@@ -967,9 +981,12 @@ class ShoppingBot:
             self.telegram.call('answerCallbackQuery',callback_query_id=callback_id)
             self.send(user_id,tr('ui_9efeebf17901'))
             return
-        if query.get("data") == "family:create":
-            self.telegram.call("answerCallbackQuery", callback_query_id=callback_id)
-            self.handle_message({"from": user, "chat": message["chat"], "text": "/create"})
+        if query.get('data') in ('family:create', 'family:solo', 'family:shared'):
+            self.telegram.call('answerCallbackQuery', callback_query_id=callback_id)
+            if query['data'] == 'family:create':
+                self.show_usage_choice(user_id)
+            else:
+                self.start_list(user_id, user.get('first_name') or tr('ui_9e0a513bdc07'), query['data'].split(':')[1])
             return
         if query.get('data','').startswith(('family:accept:','family:join:')):
             route=self.families.message_family(user_id,message.get('message_id'))

diff --git a/tests/test_bot.py b/tests/test_bot.py
@@ -63,7 +63,7 @@ class ShoppingBotTests(unittest.TestCase):
             self.bot.show_help(1, 'en', 'j', 2)
             method, payload = self.telegram.calls[-1]
             self.assertEqual(method, 'sendPhoto')
-            self.assertEqual(payload['photo'], 'https://example.com/help/en-j-2.png')
+            self.assertEqual(payload['photo'], 'https://example.com/help/en-j-2.png?v=unknown')
             query = callback(1, 'help:uk:j:3')
             query['message']['photo'] = [{}]
             self.bot.handle_callback(query)
@@ -160,6 +160,27 @@ class ShoppingBotTests(unittest.TestCase):
         self.assertIn('list:all', str(self.telegram.calls[-1][1]['reply_markup']))
         with self.store.db() as db:
             self.assertEqual(db.execute("SELECT count(*) FROM drafts WHERE actor_id=1").fetchone()[0], 0)
+
+    def test_solo_and_shared_start_choices_and_later_invite(self):
+        self.bot.families.set_language(55, 'en')
+        self.bot.handle_message(message(55, '/start'))
+        choice = next(params for method, params in reversed(self.telegram.calls) if method == 'sendMessage' and 'family:solo' in str(params))
+        self.assertIn('Just for me', str(choice))
+        self.bot.handle_callback(callback(55, 'family:solo'))
+        own = self.bot.families.details(55)
+        self.assertEqual(own['name'], 'My shopping')
+        self.assertEqual(len(self.bot.families.members(own['id'])), 1)
+        self.assertFalse(self.bot.families.invites(55))
+        self.bot.handle_message(message(55, 'milk'))
+        self.assertIn('Add to the list?', self.telegram.calls[-1][1]['text'])
+        token = self.bot.families.create_invite(55)
+        self.assertEqual(self.bot.families.accept_invite(56, 'Friend', token), 'joined')
+        self.assertEqual(self.bot.families.family(56), own['id'])
+        self.assertNotEqual(own['id'], self.bot.families.family(1))
+        self.bot.handle_callback(callback(55, 'family:shared'))
+        self.assertEqual(self.bot.families.details(55)['name'], 'My shopping')
+        self.bot.handle_callback(callback(57, 'family:shared'))
+        self.assertEqual(len(self.bot.families.members(self.bot.families.family(57))), 1)
 
     def setUp(self):
         self.temp = tempfile.TemporaryDirectory()
@@ -305,7 +326,7 @@ class ShoppingBotTests(unittest.TestCase):
         self.assertEqual(len(self.store.recent_history()), 0)
 
     def test_family_onboarding_invitation_and_persisted_routing(self):
-        self.bot.handle_message(message(3, "/create"))
+        self.bot.handle_callback(callback(3, "family:shared"))
         family = self.bot.families.family(3)
         self.assertNotEqual(family, "legacy")
         invite = self.bot.families.invite(3)
@@ -569,7 +590,7 @@ class ShoppingBotTests(unittest.TestCase):
         self.assertEqual(self.bot.families.preference(1),'uk')
         self.bot.handle_message(message(10,'milk, eggs and bread'))
         text=self.telegram.calls[-1][1]['text']
-        self.assertIn('Add to the shared list?',text)
+        self.assertIn('Add to the list?',text)
         self.assertIn('Dairy and eggs',text)
         self.assertIn('Milk',text)
         self.assertEqual(self.store.resolved_items('milk, молоко'),[('Milk',None)])

diff --git a/src/shopping_bot/families.py b/src/shopping_bot/families.py
@@ -134,7 +134,9 @@ class Families:
         info=self.details(user_id)
         return [(info['id'],info['name'],info['owner_id'])] if info else []
 
-    def enroll(self,user_id,name,invite=None,*,legacy=False):
+    def enroll(self,user_id,name,invite=None,*,legacy=False,mode=None):
+        if mode not in (None, 'solo', 'shared'):
+            raise ValueError('Invalid list mode')
         if invite:
             status=self.accept_invite(user_id,name,invite)
             return self.family(user_id),status
@@ -149,7 +151,9 @@ class Families:
             db.execute('ATTACH DATABASE ? AS family_data',(store.path,))
             db.execute('BEGIN IMMEDIATE')
             if not legacy:
-                db.execute('INSERT INTO families(id,invite,name,owner_id) VALUES (?,?,?,?)',(family_id,secrets.token_urlsafe(24),('Family ' if self.preference(user_id)=='en' else 'Сім’я ')+name[:40],user_id))
+                english = self.preference(user_id) == 'en'
+                title = (('My shopping' if english else 'Мої покупки') if mode == 'solo' else ('Shared shopping' if english else 'Спільні покупки')) if mode else ('Family ' if english else 'Сім’я ') + name[:40]
+                db.execute('INSERT INTO families(id,invite,name,owner_id) VALUES (?,?,?,?)',(family_id,secrets.token_urlsafe(24),title,user_id))
             db.execute('INSERT OR REPLACE INTO family_data.members VALUES (?,?,?)',(user_id,name[:80],now()))
             db.execute('INSERT INTO users VALUES (?,?)',(user_id,family_id))
             db.execute("INSERT OR IGNORE INTO preferences(user_id,language) VALUES (?,'uk')",(user_id,))

diff --git a/tests/test_webserver.py b/tests/test_webserver.py
@@ -61,6 +61,15 @@ class MiniAppTests(unittest.TestCase):
         conn.close()
         return status, body
 
+    def test_personal_list_creation_isolated_and_invalid_mode_rejected(self):
+        self.assertEqual(self.request('/api/family/create', {'mode':'invalid'}, user=55)[0], 400)
+        self.assertIsNone(self.bot.families.family(55))
+        self.assertEqual(self.request('/api/family/create', {'mode':'solo'}, user=55)[0], 200)
+        self.assertEqual(len(self.bot.families.members(self.bot.families.family(55))), 1)
+        self.assertEqual(self.request('/api/add', {'text':'milk'}, user=55)[0], 200)
+        self.assertNotEqual(self.bot.families.family(55), self.bot.families.family(1))
+        self.assertEqual(self.store.catalog_count(), 0)
+
     def test_release_attribution_and_owner_filter(self):
         identity = {'version':'0.2.0', 'commit':'a' * 40}
         with patch('shopping_bot.analytics.release', return_value=identity):
@@ -166,7 +175,7 @@ class MiniAppTests(unittest.TestCase):
         self.assertIn(b'Our groceries',body)
         status,body=self.request('/app.js?lang=en',auth=False)
         self.assertEqual(status,200)
-        self.assertIn(b'Add to the shared list?',body)
+        self.assertIn(b'Add to the list?',body)
 
     def test_admin_auth_sessions_privacy_and_successful_purchase_counts(self):
         self.bot.admin_ids={1}

diff --git a/src/shopping_bot/webserver.py b/src/shopping_bot/webserver.py
@@ -164,7 +164,7 @@ def make_server(bot, token: str, host: str = "127.0.0.1", port: int = 8080):
                     self.respond(409,{'error':tr('ui_4942d160189f')})
                     return
                 if path=='/api/family/create':
-                    _,status=bot.families.enroll(user_id,self.user_name)
+                    _,status=bot.families.enroll(user_id,self.user_name,mode=data.get('mode'))
                     bot.bind_user(user_id)
                     self.respond(200,{'status':status})
                     return

diff --git a/src/shopping_bot/__init__.py b/src/shopping_bot/__init__.py
@@ -1,3 +1,3 @@
 """Family shopping bot."""
 
-__version__ = "0.2.1"
+__version__ = "0.3.0"
